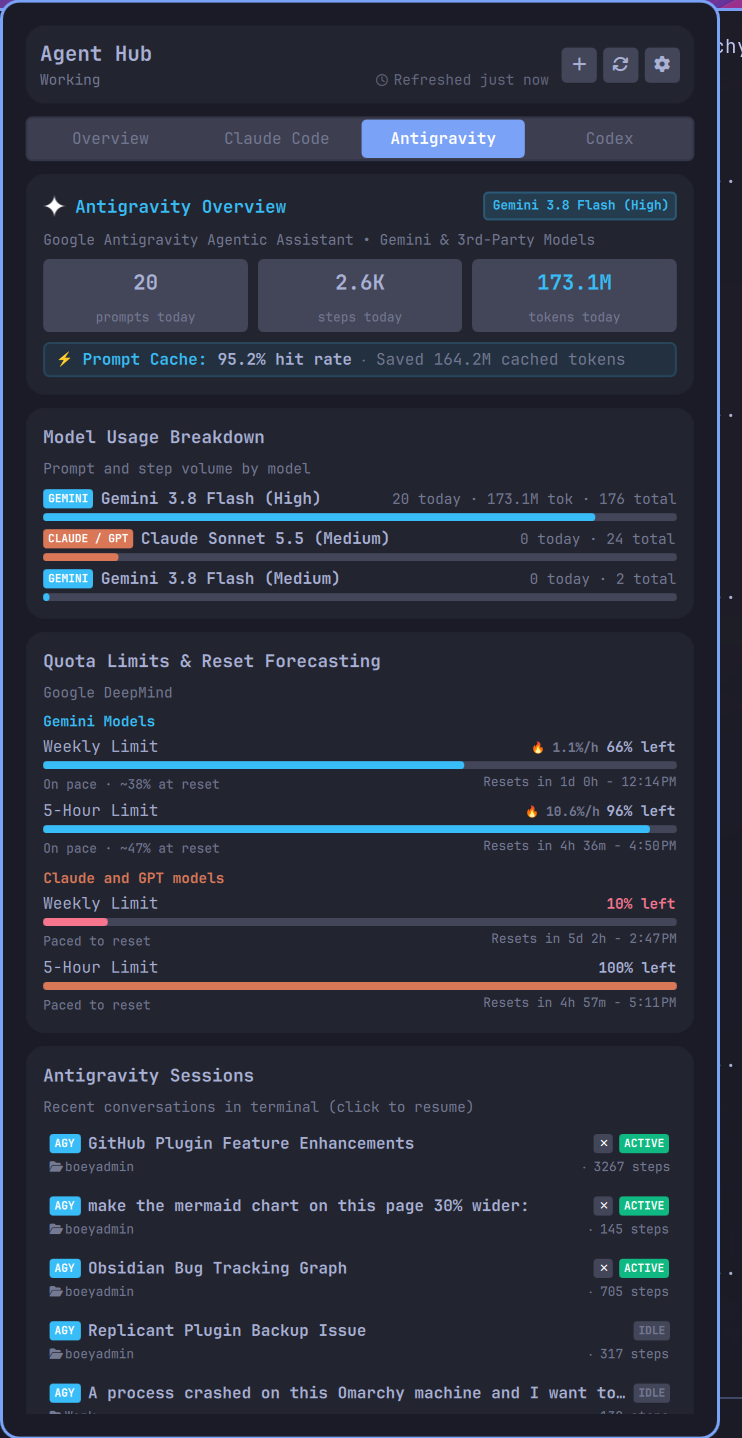
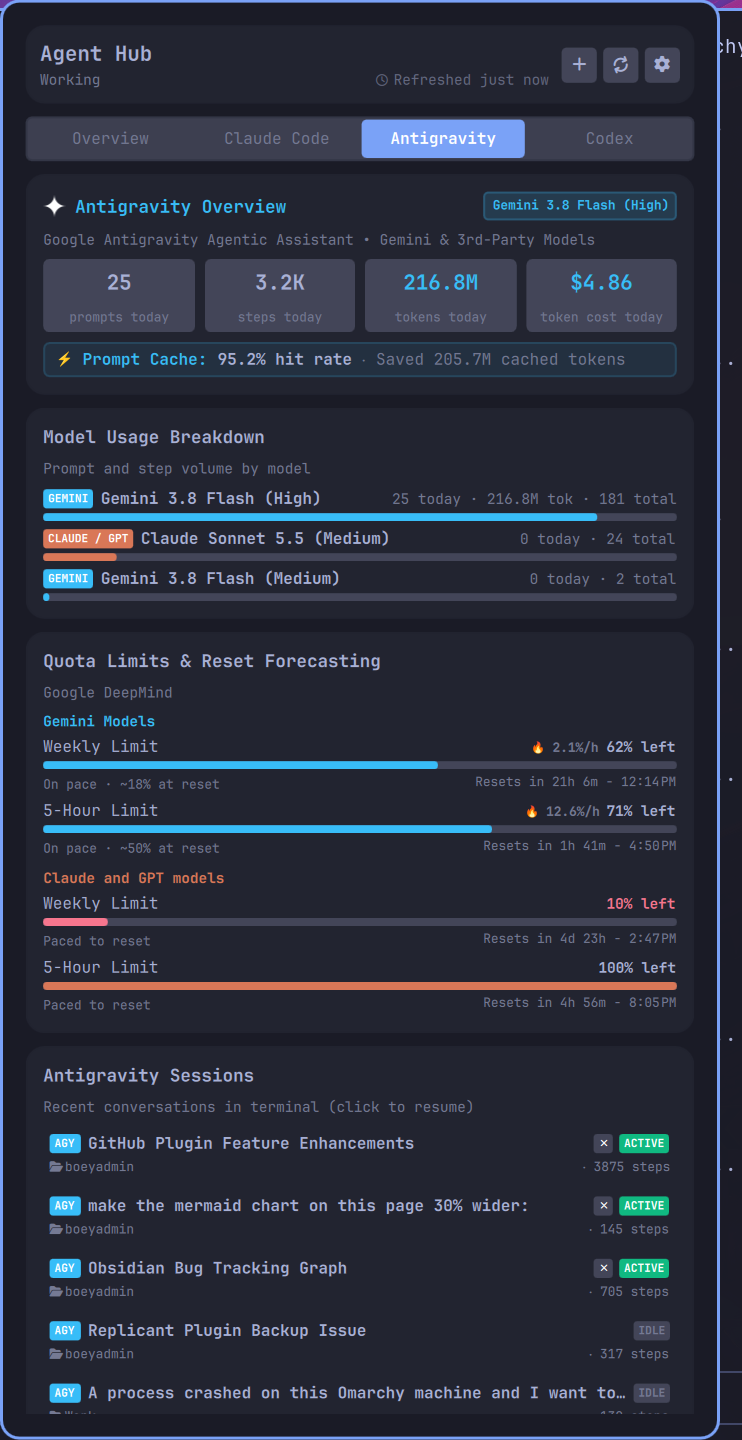
fix(scanner): robustly backfill todayTokenCost from cache and update panel screenshots

diff --git a/Widget.qml b/Widget.qml
@@ -1923,7 +1923,21 @@ BarWidget {
             valColor: agentColor
           }
           StatBlock {
-            value: usageMain.formatCost(dataPayload.todayTokenCost !== undefined ? dataPayload.todayTokenCost : 0)
+            value: {
+              var cost = dataPayload ? dataPayload.todayTokenCost : undefined
+              if (cost !== undefined && cost !== null && Number(cost) > 0) {
+                return usageMain.formatCost(cost)
+              }
+              var tok = Number((dataPayload ? dataPayload.todayTotalTokens : 0) || 0)
+              if (tok > 0) {
+                var m = String((dataPayload ? dataPayload.currentModel : "") || "").toLowerCase()
+                var rate = (agentId === "claude" ? (m.indexOf("opus") !== -1 ? 0.0000043 : 0.0000015)
+                          : (agentId === "codex" ? 0.0000015
+                          : (m.indexOf("pro") !== -1 ? 0.0000015 : 0.000000025)))
+                return usageMain.formatCost(tok * rate)
+              }
+              return "$0.00"
+            }
             label: "token cost today"
             valColor: agentColor
           }

diff --git a/scripts/hub_scanner.py b/scripts/hub_scanner.py
@@ -209,6 +209,29 @@ def scan_hub(
         else:
             codex_data = codex_scanner.empty_result()
 
+    # Ensure todayTokenCost is always populated for each provider
+    for a_data, cost_func, def_model in [
+        (claude_data, claude_scanner.estimate_claude_token_cost, "Claude (Default)"),
+        (antigravity_data, antigravity_scanner.estimate_antigravity_token_cost, "Gemini 3.8 Flash (High)"),
+        (codex_data, codex_scanner.estimate_codex_token_cost, "GPT-6 Luna"),
+    ]:
+        if "todayTokenCost" not in a_data or a_data.get("todayTokenCost") is None or (a_data.get("todayTokenCost") == 0.0 and int(a_data.get("todayTotalTokens", 0)) > 0):
+            tok = int(a_data.get("todayTotalTokens", 0))
+            if tok > 0:
+                inp = int(a_data.get("todayInputTokens", 0))
+                out = int(a_data.get("todayOutputTokens", 0))
+                cread = int(a_data.get("todayCacheReadTokens", 0))
+                cwrite = int(a_data.get("todayCacheCreationTokens", 0))
+                if inp == 0 and out == 0:
+                    inp, out = int(tok * 0.8), int(tok * 0.2)
+                try:
+                    c = cost_func(a_data.get("currentModel", def_model), inp, out, cread, cwrite)
+                except TypeError:
+                    c = cost_func(a_data.get("currentModel", def_model), inp, out, cread)
+                a_data["todayTokenCost"] = round(c, 2)
+            else:
+                a_data["todayTokenCost"] = 0.0
+
     # Determine overall activity state
     claude_active = bool(claude_data.get("hasActiveSession", False))
     claude_working = claude_data.get("activeStatus") == "Working"

diff --git a/scripts/claude_scanner.py b/scripts/claude_scanner.py
@@ -1438,6 +1438,22 @@ def scan(base_dir: Path, force: bool = False, alert_threshold: int | None = None
                     if isinstance(cached, dict) and cached.get("ready"):
                         if alert_threshold is not None:
                             check_and_send_quota_notifications(base_dir, cached.get("quotaGroups", []), threshold_pct=alert_threshold)
+                        if "todayTokenCost" not in cached or cached.get("todayTokenCost") is None:
+                            tok = int(cached.get("todayTotalTokens", 0))
+                            c = estimate_claude_token_cost(
+                                cached.get("currentModel", "Claude (Default)"),
+                                int(cached.get("todayInputTokens", 0)),
+                                int(cached.get("todayOutputTokens", 0)),
+                                int(cached.get("todayCacheReadTokens", 0)),
+                                int(cached.get("todayCacheCreationTokens", 0))
+                            )
+                            if tok > 0 and c <= 0.0:
+                                c = estimate_claude_token_cost(
+                                    cached.get("currentModel", "Claude (Default)"),
+                                    int(tok * 0.8),
+                                    int(tok * 0.2)
+                                )
+                            cached["todayTokenCost"] = round(c, 2)
                         return cached
         except Exception:
             pass

diff --git a/scripts/antigravity_scanner.py b/scripts/antigravity_scanner.py
@@ -1493,6 +1493,21 @@ def scan(base_dir: Path, force: bool = False, alert_threshold: int | None = None
                     if isinstance(cached, dict) and cached.get("ready"):
                         if alert_threshold is not None:
                             check_and_send_quota_notifications(base_dir, cached.get("quotaGroups", []), threshold_pct=alert_threshold)
+                        if "todayTokenCost" not in cached or cached.get("todayTokenCost") is None:
+                            tok = int(cached.get("todayTotalTokens", 0))
+                            c = estimate_antigravity_token_cost(
+                                cached.get("currentModel", "Gemini 3.8 Flash (High)"),
+                                int(cached.get("todayInputTokens", 0)),
+                                int(cached.get("todayOutputTokens", 0)),
+                                int(cached.get("todayCacheReadTokens", 0))
+                            )
+                            if tok > 0 and c <= 0.0:
+                                c = estimate_antigravity_token_cost(
+                                    cached.get("currentModel", "Gemini 3.8 Flash (High)"),
+                                    int(tok * 0.8),
+                                    int(tok * 0.2)
+                                )
+                            cached["todayTokenCost"] = round(c, 2)
                         return cached
         except Exception:
             pass
